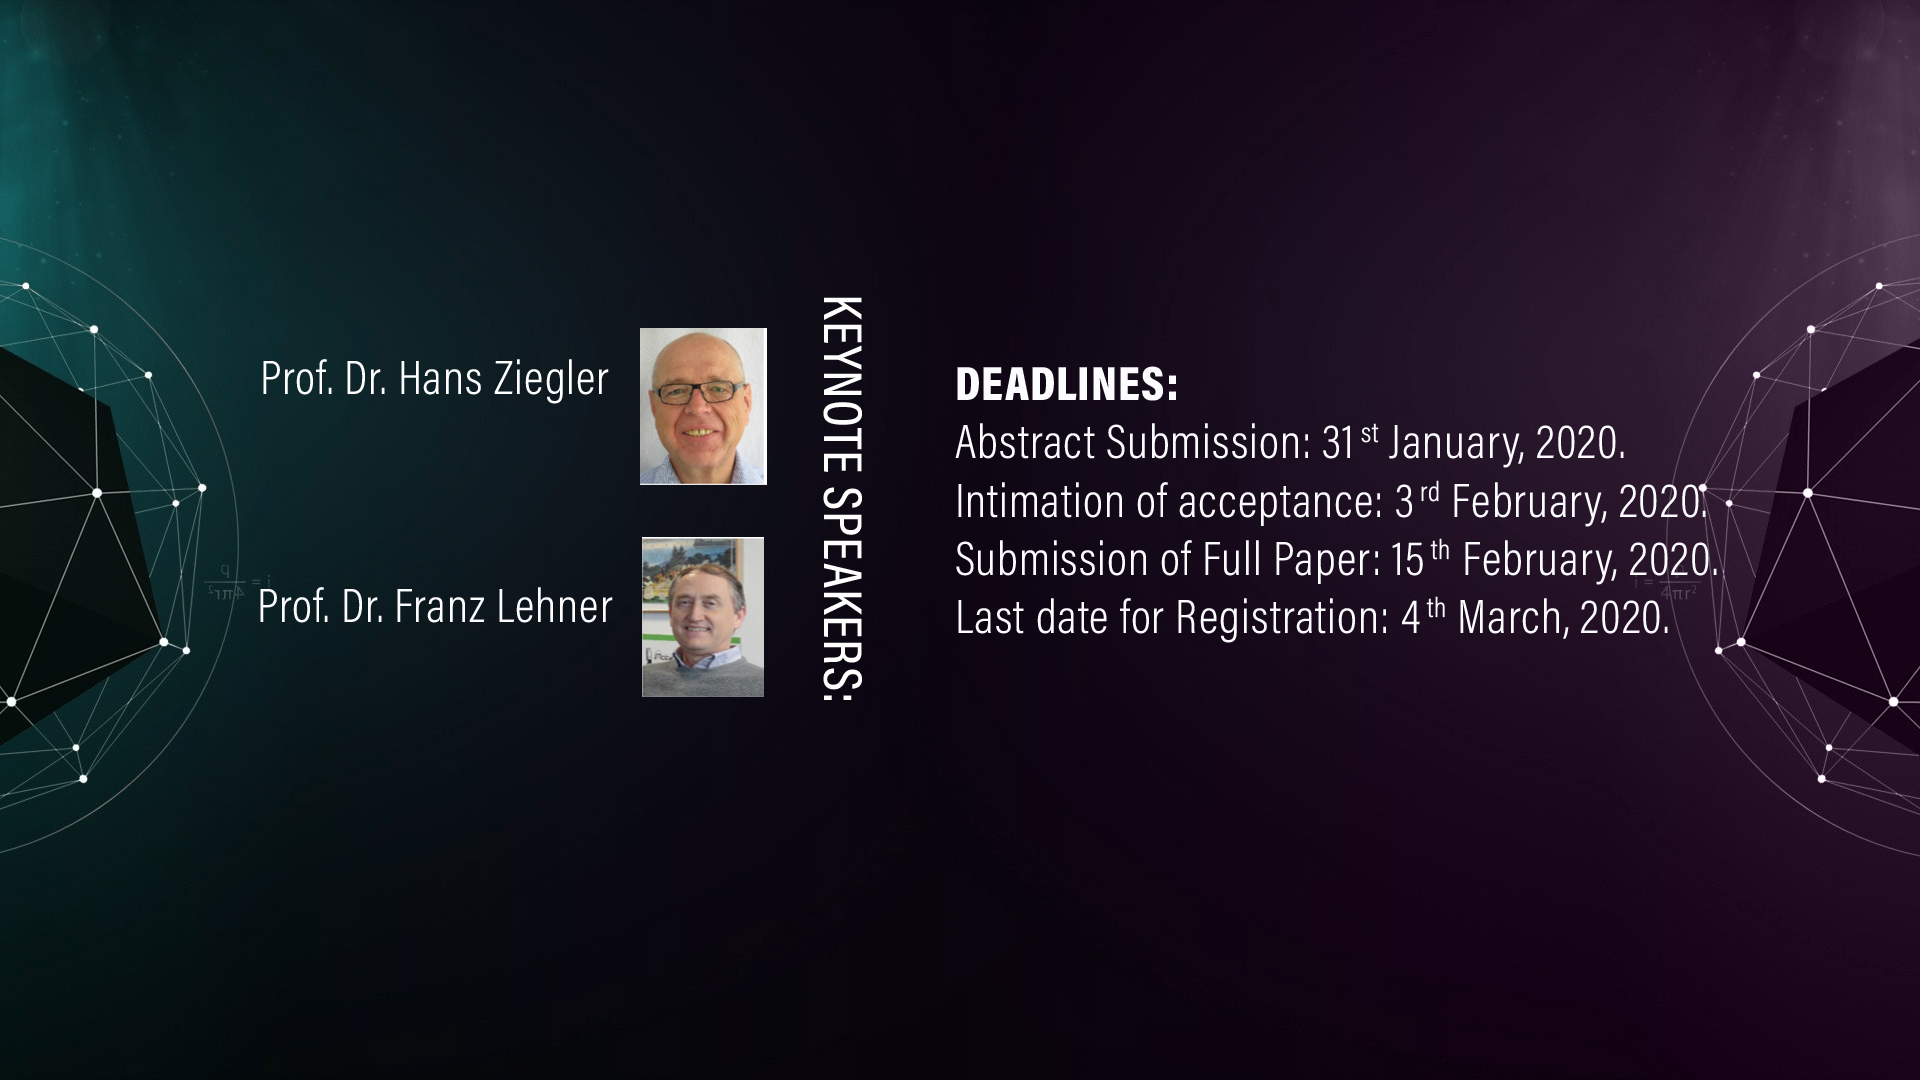
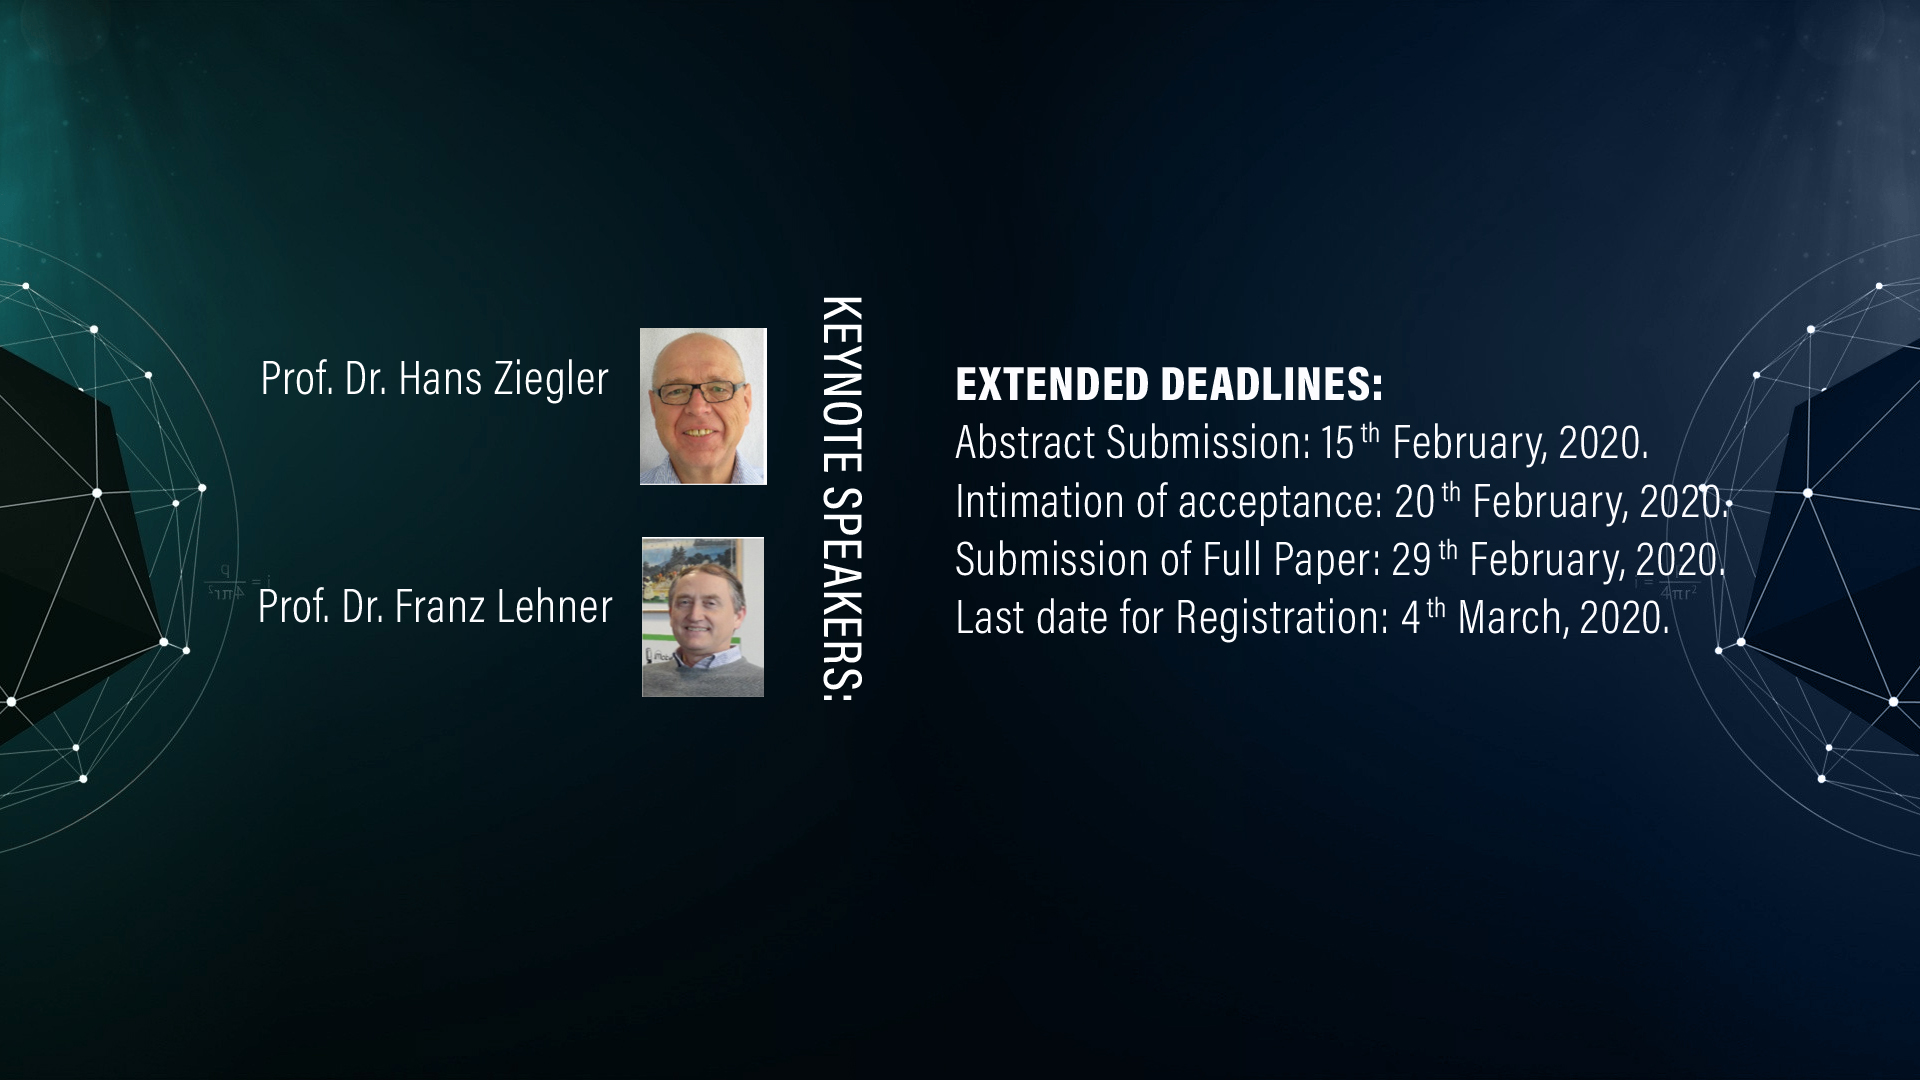
updated carousal with new dates

Changed region(s): [[0.5, 0.0, 1.0, 1.0]]

diff --git a/register.html b/register.html
@@ -146,7 +146,7 @@ co-authors</h5>
 
 
             </div>
-          </div>
+          </div>ol̥
         </div>
         
       </div>
